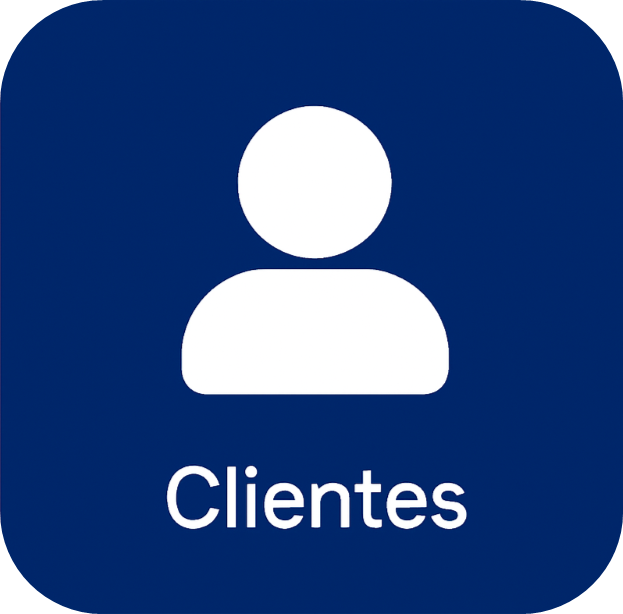
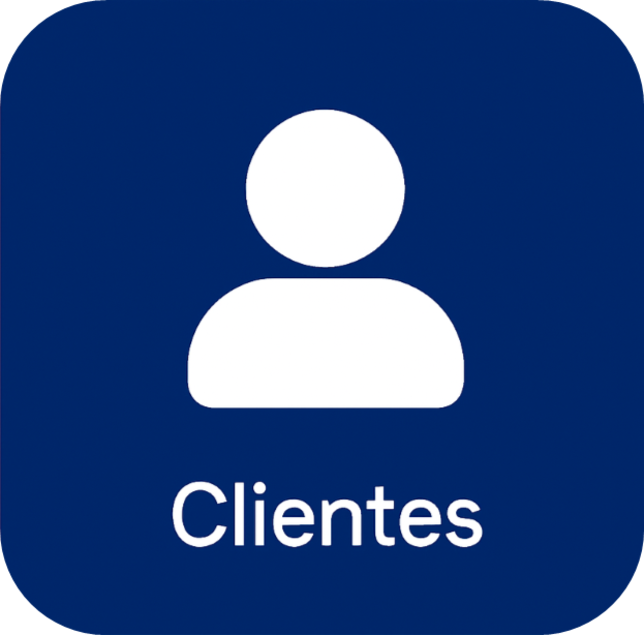
Diseño responsivo del componente modo

diff --git a/PCC/src/app/components/modo/modo.component.css b/PCC/src/app/components/modo/modo.component.css
@@ -29,7 +29,9 @@ h1 {
   justify-content: center;
   gap: 2rem;
   margin-bottom: 2rem;
+  flex-wrap: wrap; /* ← importante para que se acomoden en pantallas pequeñas */
 }
+
 .module-img.selected {
   border: 4px solid #007bff;
   transform: scale(1.05);
@@ -77,7 +79,6 @@ button:disabled {
   cursor: not-allowed;
 }
 
-
 .logout-button-fixed {
   position: fixed; 
   top: 2rem;       
@@ -88,7 +89,6 @@ button:disabled {
   padding: 0.8rem 1.5rem;
   font-size: 1rem;
   border-radius: 25px;
-  
   cursor: pointer;
   transition: all 0.3s ease;
   z-index: 9999;
@@ -97,4 +97,83 @@ button:disabled {
 .logout-button-fixed:hover {
   background-color: #c0392b;
   opacity: 0.9;
+}
+
+/* ============================= */
+/* 📱 RESPONSIVE DESIGN */
+/* ============================= */
+
+/* Tablets medianas (≤ 992px) */
+@media (max-width: 992px) {
+  h1 {
+    font-size: 3em;
+    text-align: center;
+  }
+
+  .image-container {
+    gap: 1.5rem;
+  }
+
+  .module-img {
+    width: 250px;
+    height: 300px;
+  }
+
+  .logout-button-fixed {
+    top: 1.5rem;
+    right: 1.5rem;
+    padding: 0.7rem 1.2rem;
+  }
+}
+
+/* Tablets pequeñas o celulares grandes (≤ 768px) */
+@media (max-width: 768px) {
+  body {
+    flex-direction: column;
+    justify-content: flex-start;
+    padding-top: 6rem;
+  }
+
+  h1 {
+    font-size: 2.5em;
+    text-align: center;
+  }
+
+  .image-container {
+    flex-direction: column;
+    align-items: center;
+    gap: 1.5rem;
+  }
+
+  .button-container {
+    flex-direction: column;
+    align-items: center;
+  }
+
+  .back, .continue {
+    width: 70%;
+    text-align: center;
+  }
+}
+
+/* Celulares pequeños (≤ 480px) */
+@media (max-width: 480px) {
+  h1 {
+    font-size: 2em;
+  }
+
+  .container {
+    padding: 1rem;
+  }
+
+  .module-img {
+    width: 200px;
+  }
+
+  .logout-button-fixed {
+    top: 1rem;
+    right: 1rem;
+    padding: 0.6rem 1rem;
+    font-size: 0.9rem;
+  }
 }

diff --git a/PCC/src/app/components/modo/modo.component.html b/PCC/src/app/components/modo/modo.component.html
@@ -11,7 +11,7 @@
         class="module-link"
       >
         <img
-          style="height: 322px; width: 300px;"
+          style="height: 320px;"
           src="../../../assets/images/clientes.png"
           alt="Gestión de Clientes"
           class="module-img"
@@ -24,7 +24,7 @@
         class="module-link"
       >
         <img
-         style="height: 320px;"
+          style="height: 320px;"
           src="../../../assets/images/ventas.png"
           alt="Gestión de Ventas"
           class="module-img"
@@ -37,7 +37,6 @@
         class="module-link"
       >
         <img
-        style="height: 335px;"
           src="../../../assets/images/almacen.png"
           alt="Modo Almacén"
           class="module-img"
